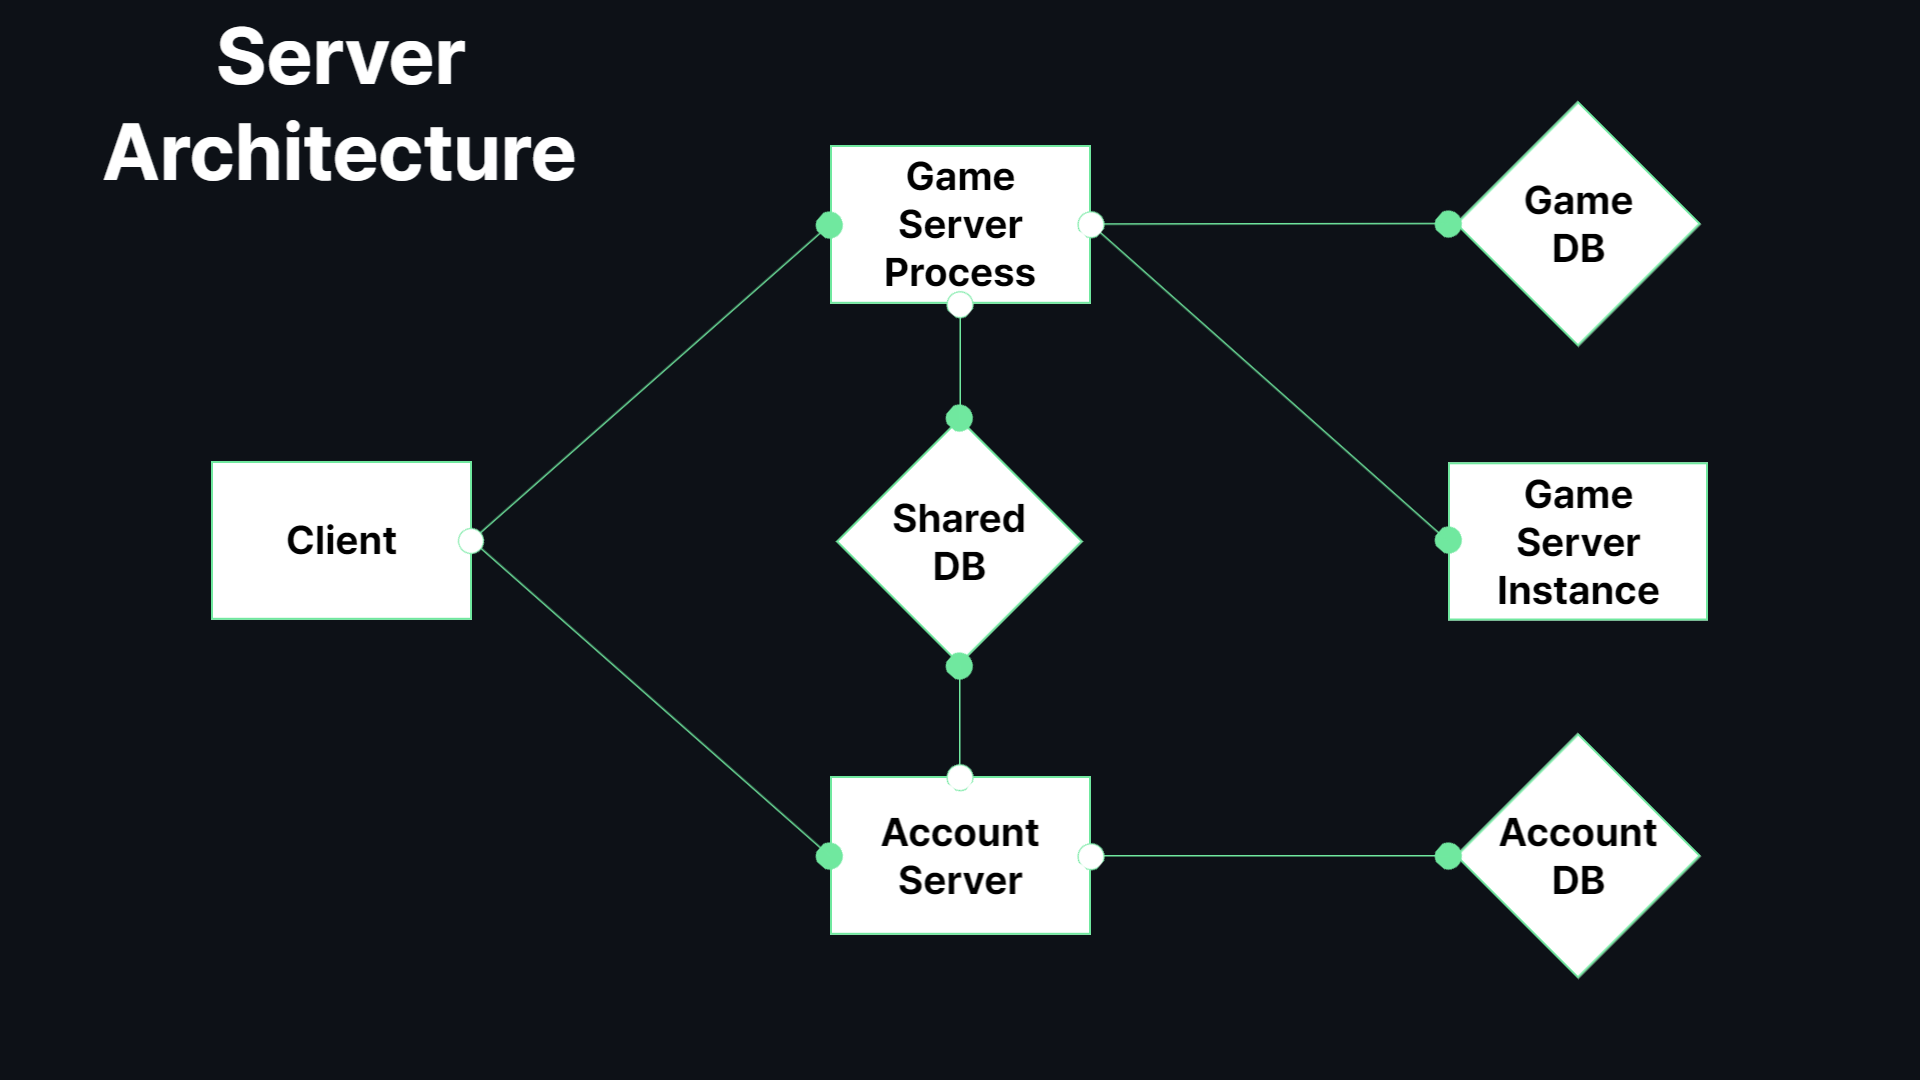
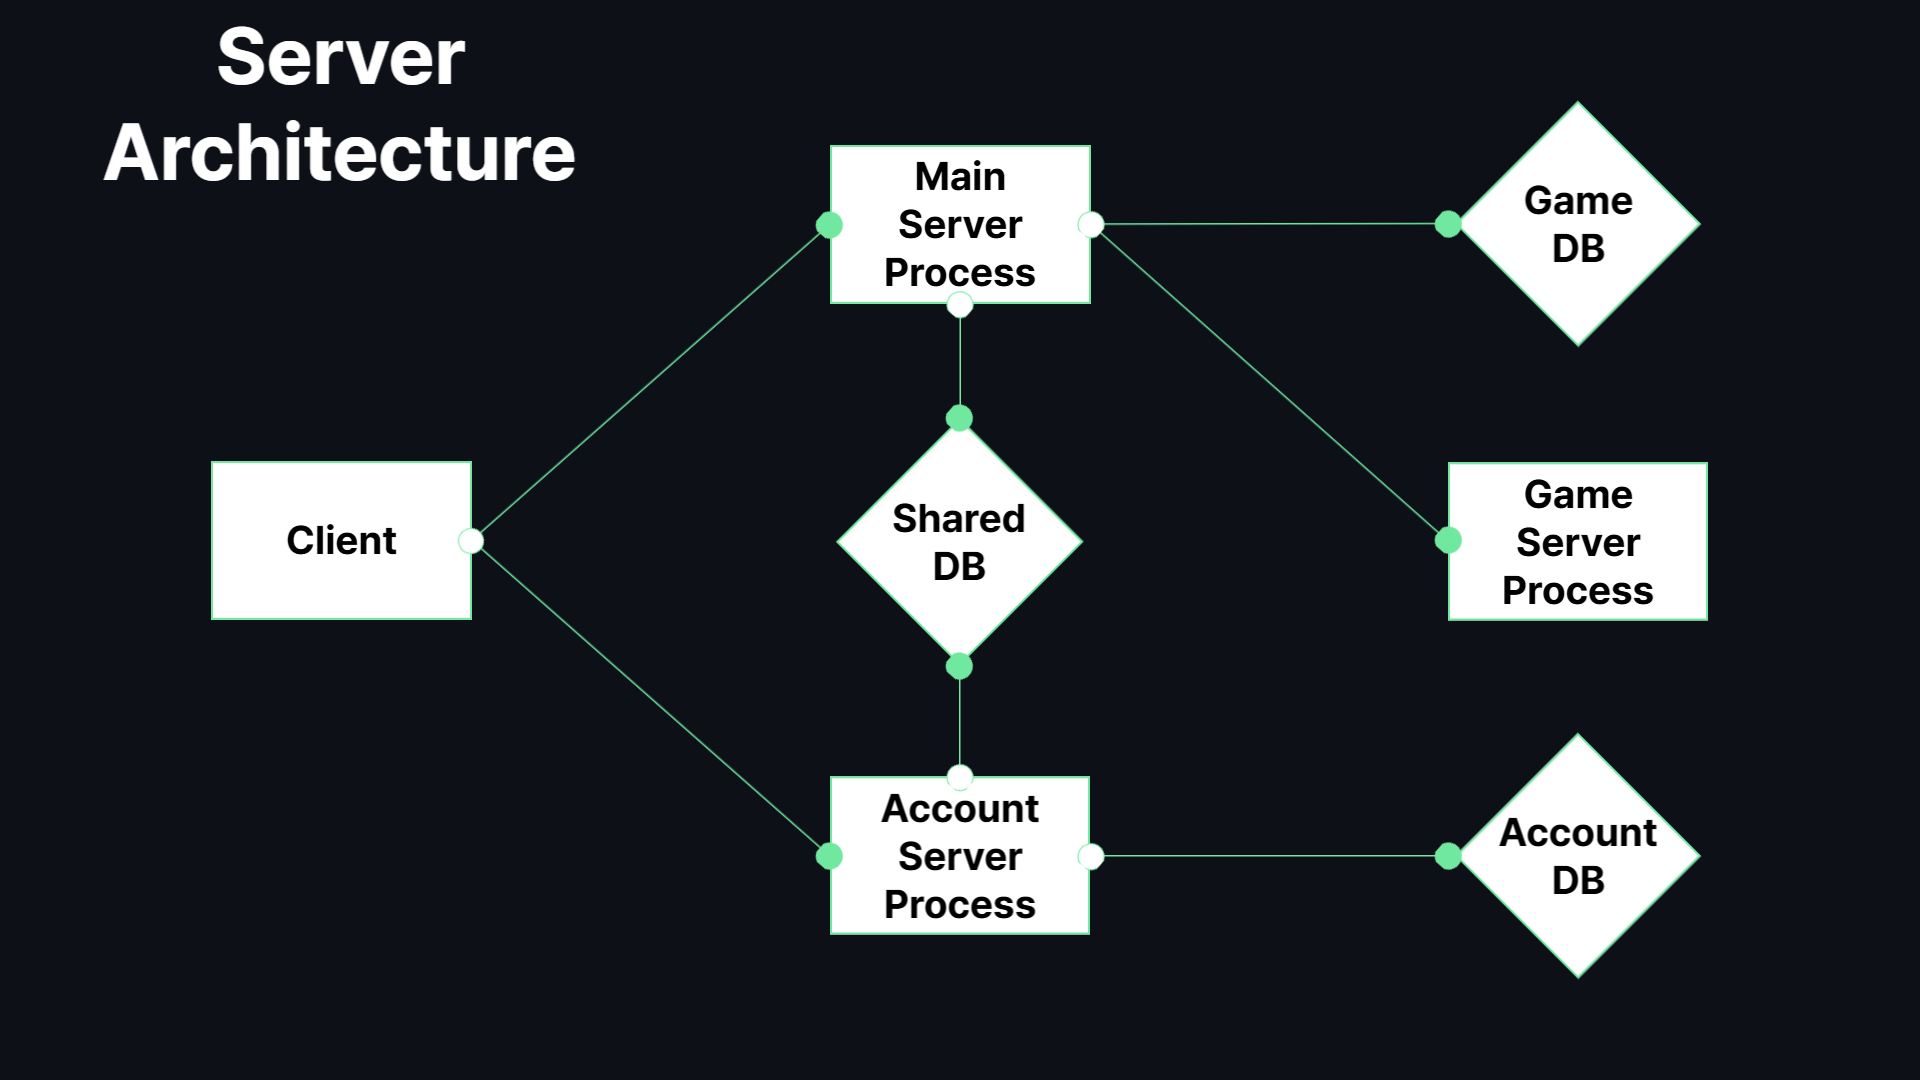
README 수정

Changed region(s): [[0.4375, 0.7333, 0.5625, 0.8556], [0.7812, 0.4889, 0.875, 0.5806], [0.4688, 0.1528, 0.5312, 0.1833]]

diff --git a/README.md b/README.md
@@ -1,21 +1,19 @@
-[한국어 문서](https://github.com/BIGSUNGG/MMO_RPG/blob/Finish/README-ko.md)
+<h2>MMO RPG 프로젝트</h2>
 
-<h2>MMO RPG Project</h2>
+MMO RPG 프로젝트는 Unity와 `TCP/IP 소켓`과 `HTTP`를 사용한 MMO RPG 입니다.
 
-MMO RPG project is Unity3D MMORPG with `Tcp/Ip socket` and `HTTP`
-
-[Execution Video](https://youtu.be/rkpdzgeK8vM)
+[실행 영상](https://www.youtube.com/watch?v=Cpboz2mf5Pk&t=109s)
 
 ---
 
-<h3>Languages and Tools</h3>
+<h3>기술 스택</h3>
 
 ---
 
 <table align="center">
     <tr align="center">
         <td style="font-weight: bold; padding-right: 10px; vertical-align: center;">
-            Language
+            언어
         </td>
         <td>
             <img height="40" src="https://cdn.worldvectorlogo.com/logos/c--4.svg"/> 
@@ -23,7 +21,7 @@ MMO RPG project is Unity3D MMORPG with `Tcp/Ip socket` and `HTTP`
     </tr>
         <tr align="center">
         <td style="font-weight: bold; padding-right: 10px; vertical-align: center;">
-            Game Engine
+            게임 엔진
         </td>
         <td>
             <img height="40" src="https://cdn.icon-icons.com/icons2/2248/PNG/512/unity_icon_136074.png"/>
@@ -31,7 +29,7 @@ MMO RPG project is Unity3D MMORPG with `Tcp/Ip socket` and `HTTP`
     </tr>
         <tr align="center">
         <td style="font-weight: bold; padding-right: 10px; vertical-align: center;">
-            Database
+            데이터베이스
         </td>
         <td>
             <img height="40" src="https://cdn-icons-png.flaticon.com/512/5968/5968364.png"/>
@@ -40,7 +38,7 @@ MMO RPG project is Unity3D MMORPG with `Tcp/Ip socket` and `HTTP`
     </tr >
         <tr align="center">
         <td style="font-weight: bold; padding-right: 10px; vertical-align: center;">
-        Library
+        라이브러리
         </td>
         <td>       
             <img height="40" src="https://www.basyskom.de/wp-content/uploads/2020/04/protobuf_google_developer.png"/>                    
@@ -48,41 +46,47 @@ MMO RPG project is Unity3D MMORPG with `Tcp/Ip socket` and `HTTP`
     </tr>
 </table>
 
-<h2>Login</h2>
+<h2>로그인</h2>
 
 ![intro-image](./README/Screen.png)
 
-When a client attempts to log in, 
-it sends a login packet to the `Account Server (web server)` using HTTP.   
-The Account Server then searches for the corresponding account in the AccountDB and,   
-upon success, updates the token for the account ID in the `SharedDB`.    
-It then sends the client information about the `Game Server Process` and the token.   
-The client, upon receiving this packet, connects to the Game Server Process and,   
-upon successful connection, sends a login packet containing the token information to the server.   
-The Game Server Process checks if the token received from the SharedDB is valid.   
-If valid, it finds the game account ID corresponding to the token's account ID in the `GameDB`,   
-starts the client session, and sends a login success packet to the client.
+![intro-image](./README/Login.png)
+
+1. 클라이언트에서 ID와 비밀번호를 담아 
+계정 서버로 로그인 요청합니다.  
+
+2. 계정 서버에서 요청이 올바른지 확인하고
+SharedDB에 토큰을 생성한 후 
+토큰을 클라이언트로 넘깁니다.
+
+3. 계정 서버의 응답을 받은 
+클라이언트에서 메인 서버로 연결하고
+메인 서버로 응답에 담긴 토큰을 전달합니다.
+
+4. 메인 서버에서 SharedDB를 통해 
+토큰이 올바른지 확인하고 클라이언트에게
+로그인 성공 패킷을 전달합니다. 
 
 ---
 
-<h2>Architecture</h2>
+<h2>아키텍쳐</h2>
 
 ![intro-image](./README/Architecture.png)
 
-The MMO RPG project features a server structure that includes:  
+MMO RPG 프로젝트의 서버 구조는 멀티 프로세스 구조로  
 
-`Account Server(Web Server)`, which is responsible for managing user accounts.   
-This server communicates with clients using `HTTP`.  
+계정의 관리를 담당하는 `계정 서버 프로세스(웹 서버)`가 있습니다.  
+계정 서버 프로세스는 `HTTP`를 사용하여 클라이언트와 통신합니다.  
 
-`Game Server Process`, tasked with managing connected players.   
-It communicates with clients via `TCP/IP sockets`.
+접속중인 유저의 관리를 담당하는 `메인 서버 프로세스`가 있습니다.  
+메인 서버 프로세스는 `TCP/IP` 소켓을 사용하여 클라이언트와 비동기 통신을 합니다.  
 
-`Game Server Instance(Unity Dedicated Server)`, which handles the game logic.   
-It communicates with the Game Server Process through `IPC communication using TCP/IP sockets`   
-and also facilitates communication with clients via the Game Server Process.
+게임의 로직을 담당하는 `게임 서버 프로세스(유니티 데디케이트 서버)`가 있습니다.  
+게임 서버 프로세스는 메인 서버 프로세스와 `TCP/IP 소켓을 사용한 IPC통신`을 통하여 통신합니다.  
+또한 게임 서버 프로세스는 `메인 서버 프로세스를 통해 클라이언트와 간접적으로 통신`합니다.
 
-`AccountDB`, stores user account information.
+유저의 계정 정보를 저장하는 `AccountDB`가 있습니다.
 
-`SharedDB`, stores information about currently available servers and tokens.
+현재 접속할 수 있는 서버의 정보와 토큰을 저장하는 `SharedDB`가 있습니다.
 
-`GameDB`, stores the user's game data
+유저의 게임 정보를 저장하는 `GameDB`가 있습니다.
